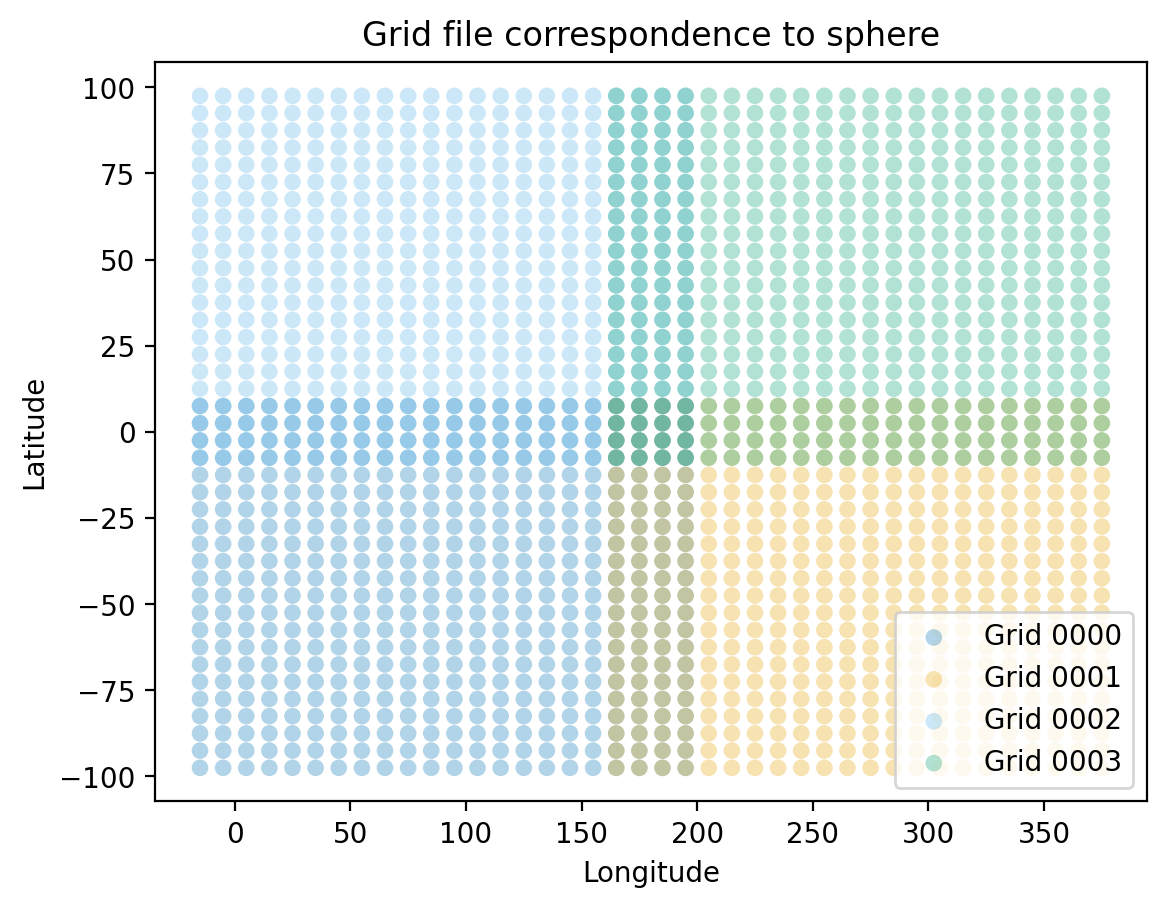
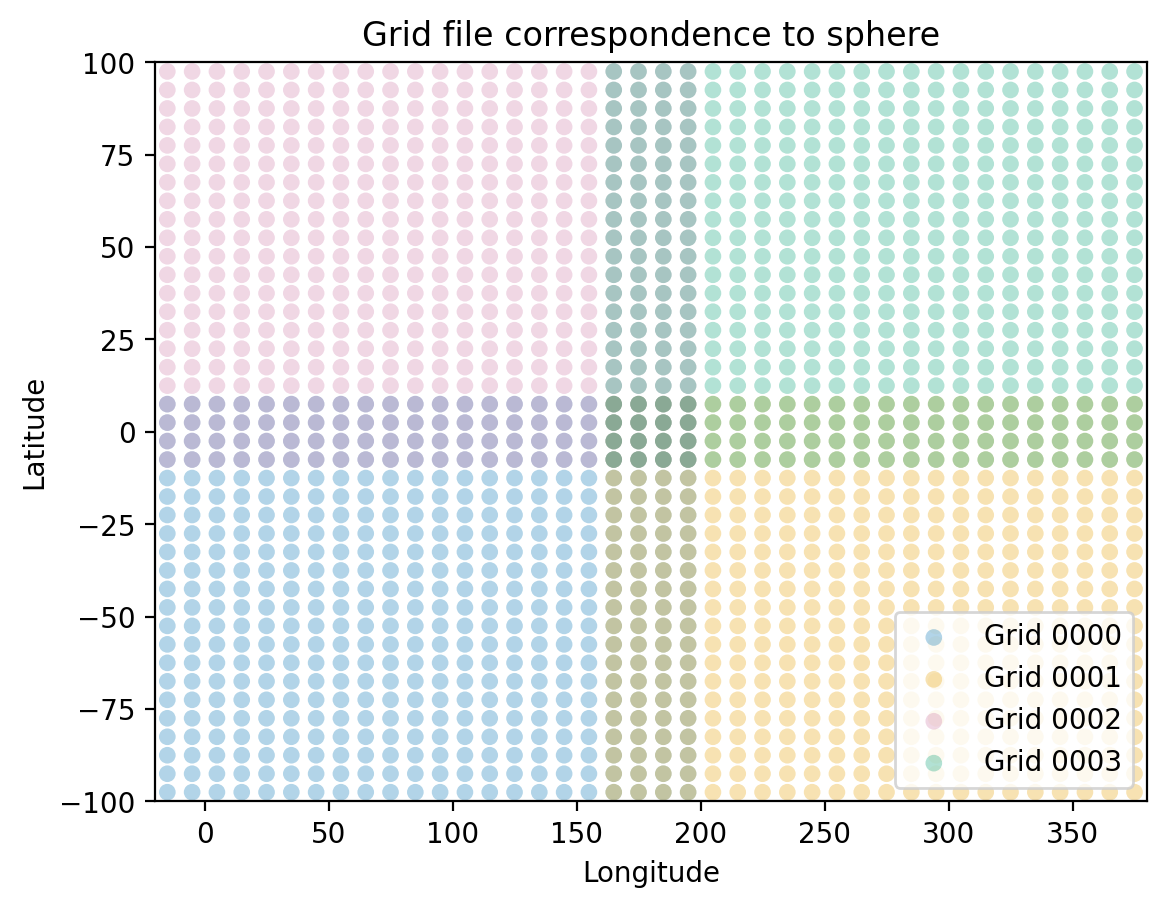
Update osse/overview to show truncated lat/lon sphere

diff --git a/osse/overview.rst b/osse/overview.rst
@@ -1,32 +1,140 @@
 OSSE Effort
-===========
+###########
 
 Overview
---------
+========
 
 This section documents the effort to deliver an OSSE capability for Aether.
 This entails assimilation of in situ state variable observations.
 
 Miscellaneous starting points
------------------------------
+=============================
 
 Interpolation
-~~~~~~~~~~~~~
+-------------
 
 Aaron's student Zehua wrote an `interpolator <https://github.com/AetherModel/Aether/blob/docs/doc/interpolation.md>`_ within the Aether source code.
 
 Active development branch
-~~~~~~~~~~~~~~~~~~~~~~~~~
+-------------------------
 
 The ``develop`` branch for the Aether model is far ahead of ``main`` branch.
 It is accessible via the
 `AetherModel/Aether repository on Github <https://github.com/AetherModel/Aether/tree/develop>`_.
 
 Latitude/longitude grid
-~~~~~~~~~~~~~~~~~~~~~~~
+-----------------------
 
 The latitude/longitude grid files are grouped in sets of four, numbered as
 ``0000``, ``0001``, ``0002``, ``0003``.
+
+Headers from each of the files
+~~~~~~~~~~~~~~~~~~~~~~~~~~~~~~
+
+- All files have a ``time`` dimension
+- The ``below`` file has an ``Altitude`` dimension and an extra ``z`` index
+- The ``down`` file has ``Longitude Down`` and ``Latitude Down`` and an extra ``y`` index
+- The ``left`` file has ``Longitude Left`` and ``Latitude Left`` and an extra ``x`` index
+- The ``corners`` file has ``Longitude Corners``, ``Latitude Corners``, ``Altitude Corners`` and an extra ``x``, ``y`` and ``z`` index
+- The file without an appended descriptor has ``Longitude``, ``Latitude`` and ``Altitude``
+
+below
+~~~~~
+
+.. code-block::
+
+   netcdf grid_below_g0000 {
+   dimensions:
+           x = 22 ;
+           y = 22 ;
+           z = 45 ;
+           time = 1 ;
+   variables:
+           double time(time) ;
+           float Altitude Below(x, y, z) ;
+                   Altitude Below:units = "meters" ;
+   }
+
+down
+~~~~
+
+.. code-block::
+
+   netcdf grid_down_g0000 {
+   dimensions:
+           x = 22 ;
+           y = 23 ;
+           z = 44 ;
+           time = 1 ;
+    variables:
+           double time(time) ;
+           float Longitude Down(x, y, z) ;
+                   Longitude Down:units = "radians" ;
+           float Latitude Down(x, y, z) ;
+                   Latitude Down:units = "radians" ;
+   }
+
+left
+~~~~
+
+.. code-block::
+
+   netcdf grid_left_g0000 {
+   dimensions:
+           x = 23 ;
+           y = 22 ;
+           z = 44 ;
+           time = 1 ;
+   variables:
+           double time(time) ;
+           float Longitude Left(x, y, z) ;
+                   Longitude Left:units = "radians" ;
+           float Latitude Left(x, y, z) ;
+                   Latitude Left:units = "radians" ;
+   }
+
+corners
+~~~~~~~
+
+.. code-block::
+
+   netcdf grid_corners_g0000 {
+   dimensions:
+           x = 23 ;
+           y = 23 ;
+           z = 45 ;
+           time = 1 ;
+   variables:
+           double time(time) ;
+           float Longitude Corners(x, y, z) ;
+                   Longitude Corners:units = "radians" ;
+           float Latitude Corners(x, y, z) ;
+                   Latitude Corners:units = "radians" ;
+           float Altitude Corners(x, y, z) ;
+                   Altitude Corners:units = "meters" ;
+   }
+
+grid
+~~~~
+
+.. code-block::
+
+   netcdf grid_g0000 {
+   dimensions:
+           x = 22 ;
+           y = 22 ;
+           z = 44 ;
+           time = 1 ;
+    variables:
+            double time(time) ;
+            float Longitude(x, y, z) ;
+                    Longitude:units = "radians" ;
+            float Latitude(x, y, z) ;
+                    Latitude:units = "radians" ;
+            float Altitude(x, y, z) ;
+                    Altitude:units = "meters" ;
+   }
+
 
 Using ``/scripts/plot_sphere.py`` to plot the lowest level of latitudes and
 longitudes in this set of four grid files:
@@ -44,8 +152,50 @@ results in this plot that shows the overlap of the faces:
    :width: 900
    :alt: Scatter plot of the Aether latitude/longitude sphere
 
+Converted to degrees, each of the four grid files has the following maximum
+and minimum coordinates:
+
++-----------+---------+---------+---------+---------+
+| Grid file | Min lat | Max lat | Min lon | Max lon |
++===========+=========+=========+=========+=========+
+| g0000     | -97.5   | 7.5     | -15.0   | 195.0   |
++-----------+---------+---------+---------+---------+
+| g0001     | -97.5   | 7.5     | 165.0   | 375.0   |
++-----------+---------+---------+---------+---------+
+| g0002     | -7.5    | 97.5    | -15.0   | 195.0   |
++-----------+---------+---------+---------+---------+
+| g0003     | -7.5    | 97.5    | 165.0   | 375.0   |
++-----------+---------+---------+---------+---------+
+
+Truncating the grid to remove the halos
+---------------------------------------
+
+By truncating the first and last two indices from each file, the resulting plot
+has no overlap of the grid files and the resulting truncated arrays have the
+following maximum and minimum coordinates:
+
++-----------+---------+---------+---------+---------+
+| Grid file | Min lat | Max lat | Min lon | Max lon |
++-----------+---------+---------+---------+---------+
+|      0000 | -87.500 | -2.4999 | 5.00000 | 175.000 |
++-----------+---------+---------+---------+---------+
+|      0001 | -87.500 | -2.4999 |   185.0 |   355.0 |
++-----------+---------+---------+---------+---------+
+|      0002 | 2.50000 | 87.5000 | 5.00000 | 175.000 |
++-----------+---------+---------+---------+---------+
+|      0003 | 2.50000 | 87.5000 |   185.0 |   355.0 |
++-----------+---------+---------+---------+---------+
+
+
+|sphere_scatter_truncated|
+
+.. |sphere_scatter_truncated| image:: /_static/sphere_scatter_truncated.png
+   :width: 900
+   :alt: Scatter plot of the truncated Aether latitude/longitude sphere
+
+
 Cube sphere grid
-~~~~~~~~~~~~~~~~
+----------------
 
 The cube sphere grid files are grouped in sets of six, numbered as ``0000``, 
 ``0001``, ``0002``, ``0003``, ``0004``, ``0005``.
